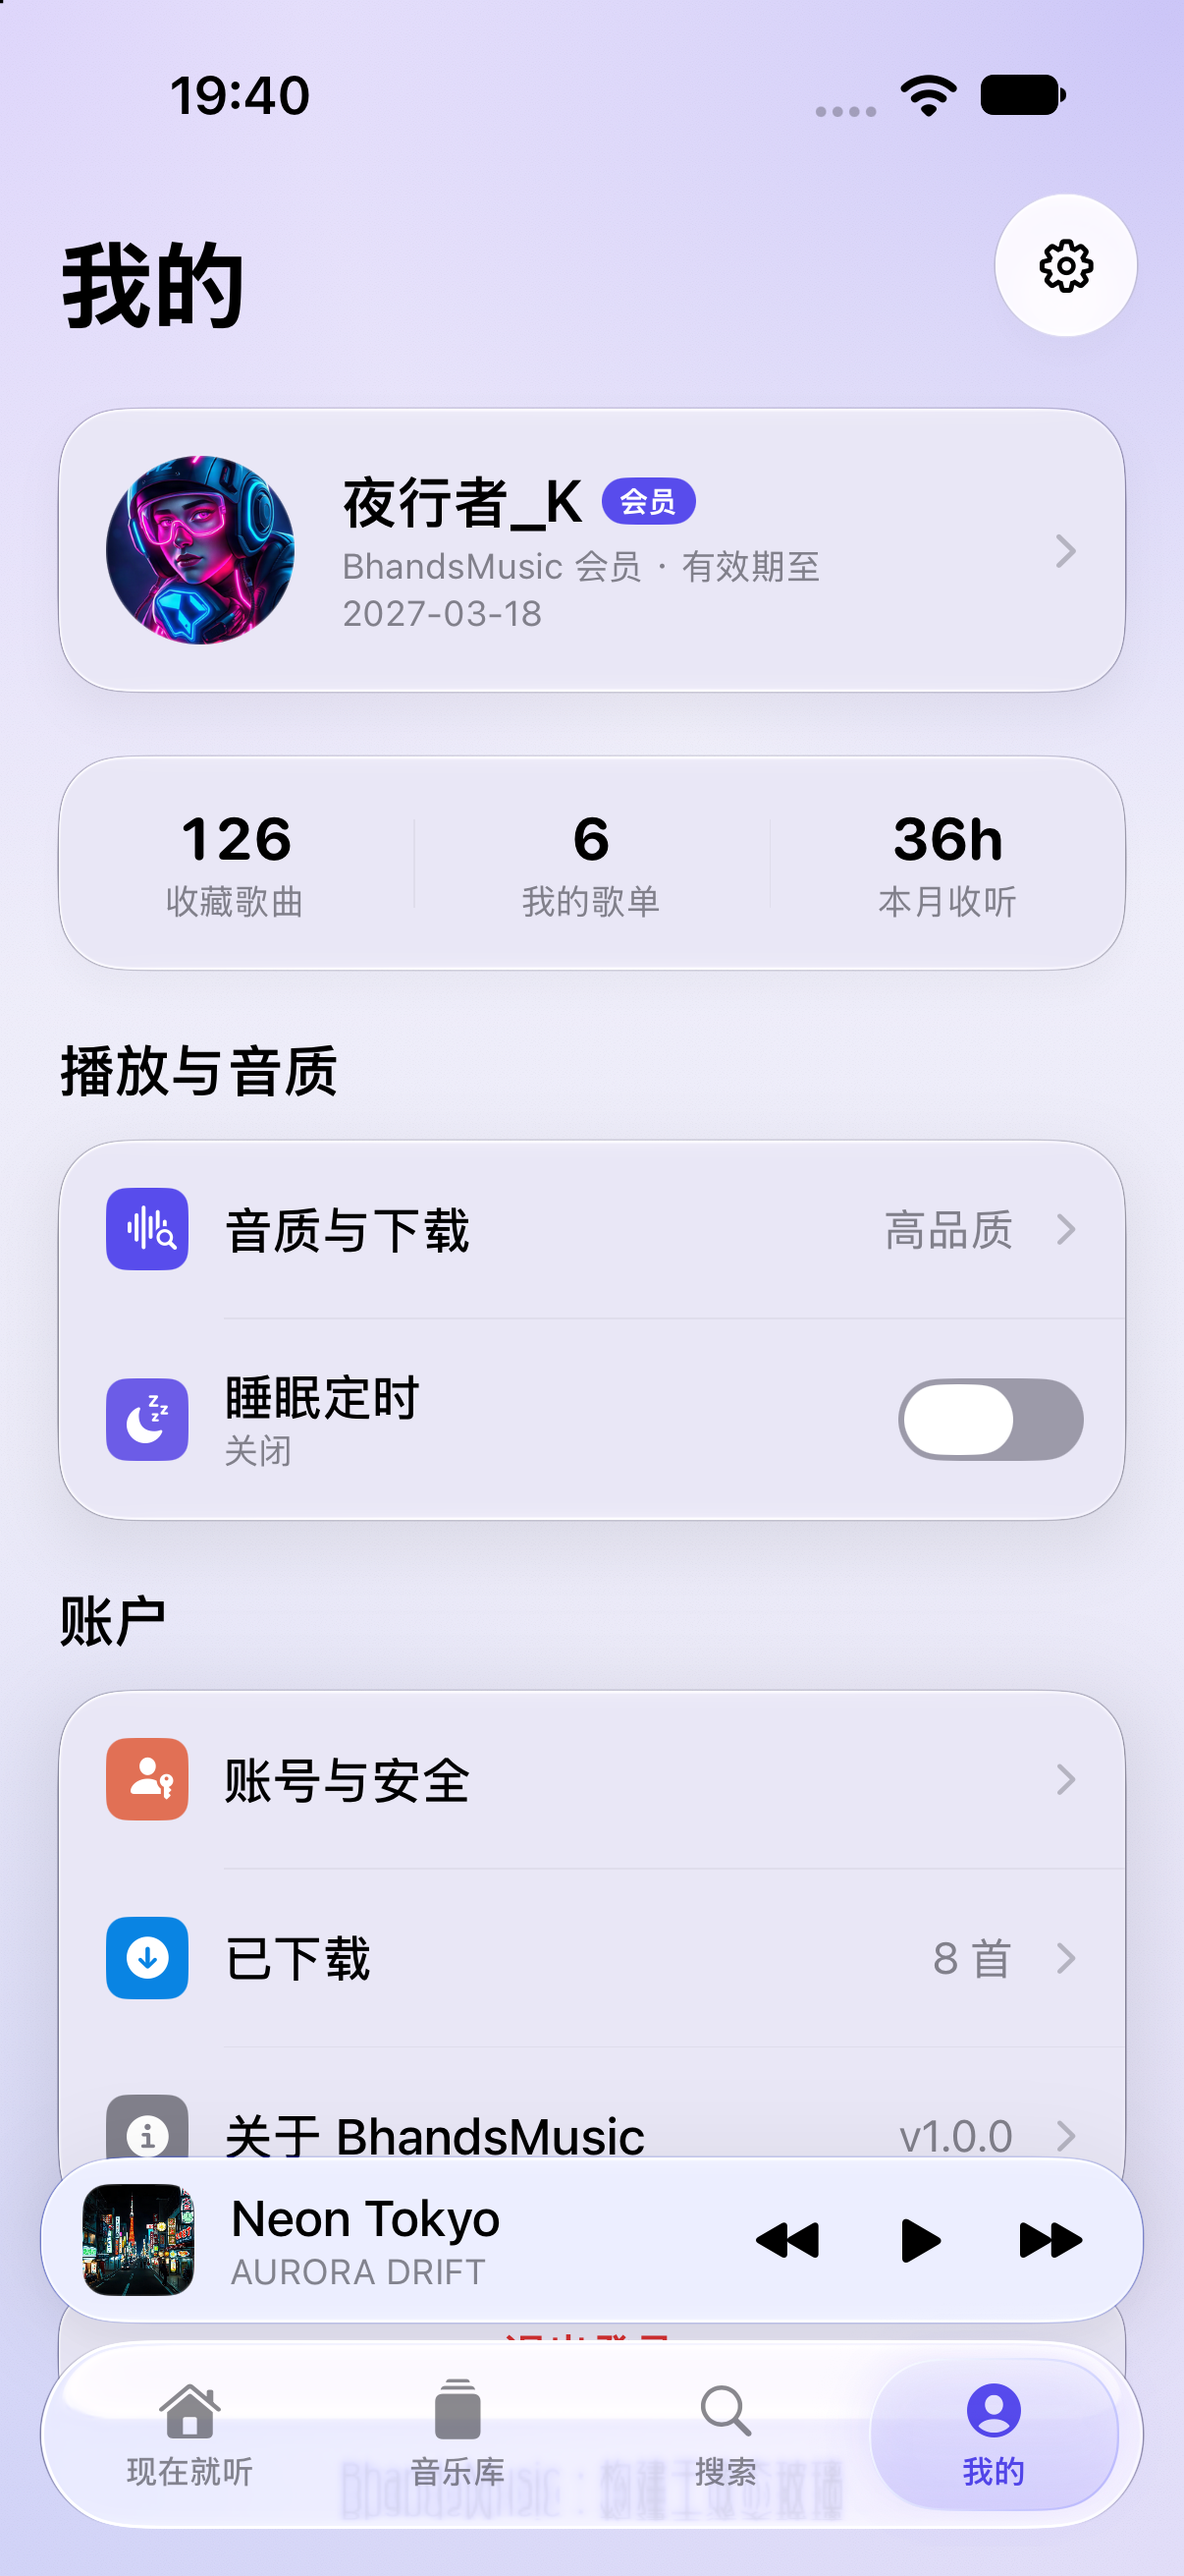
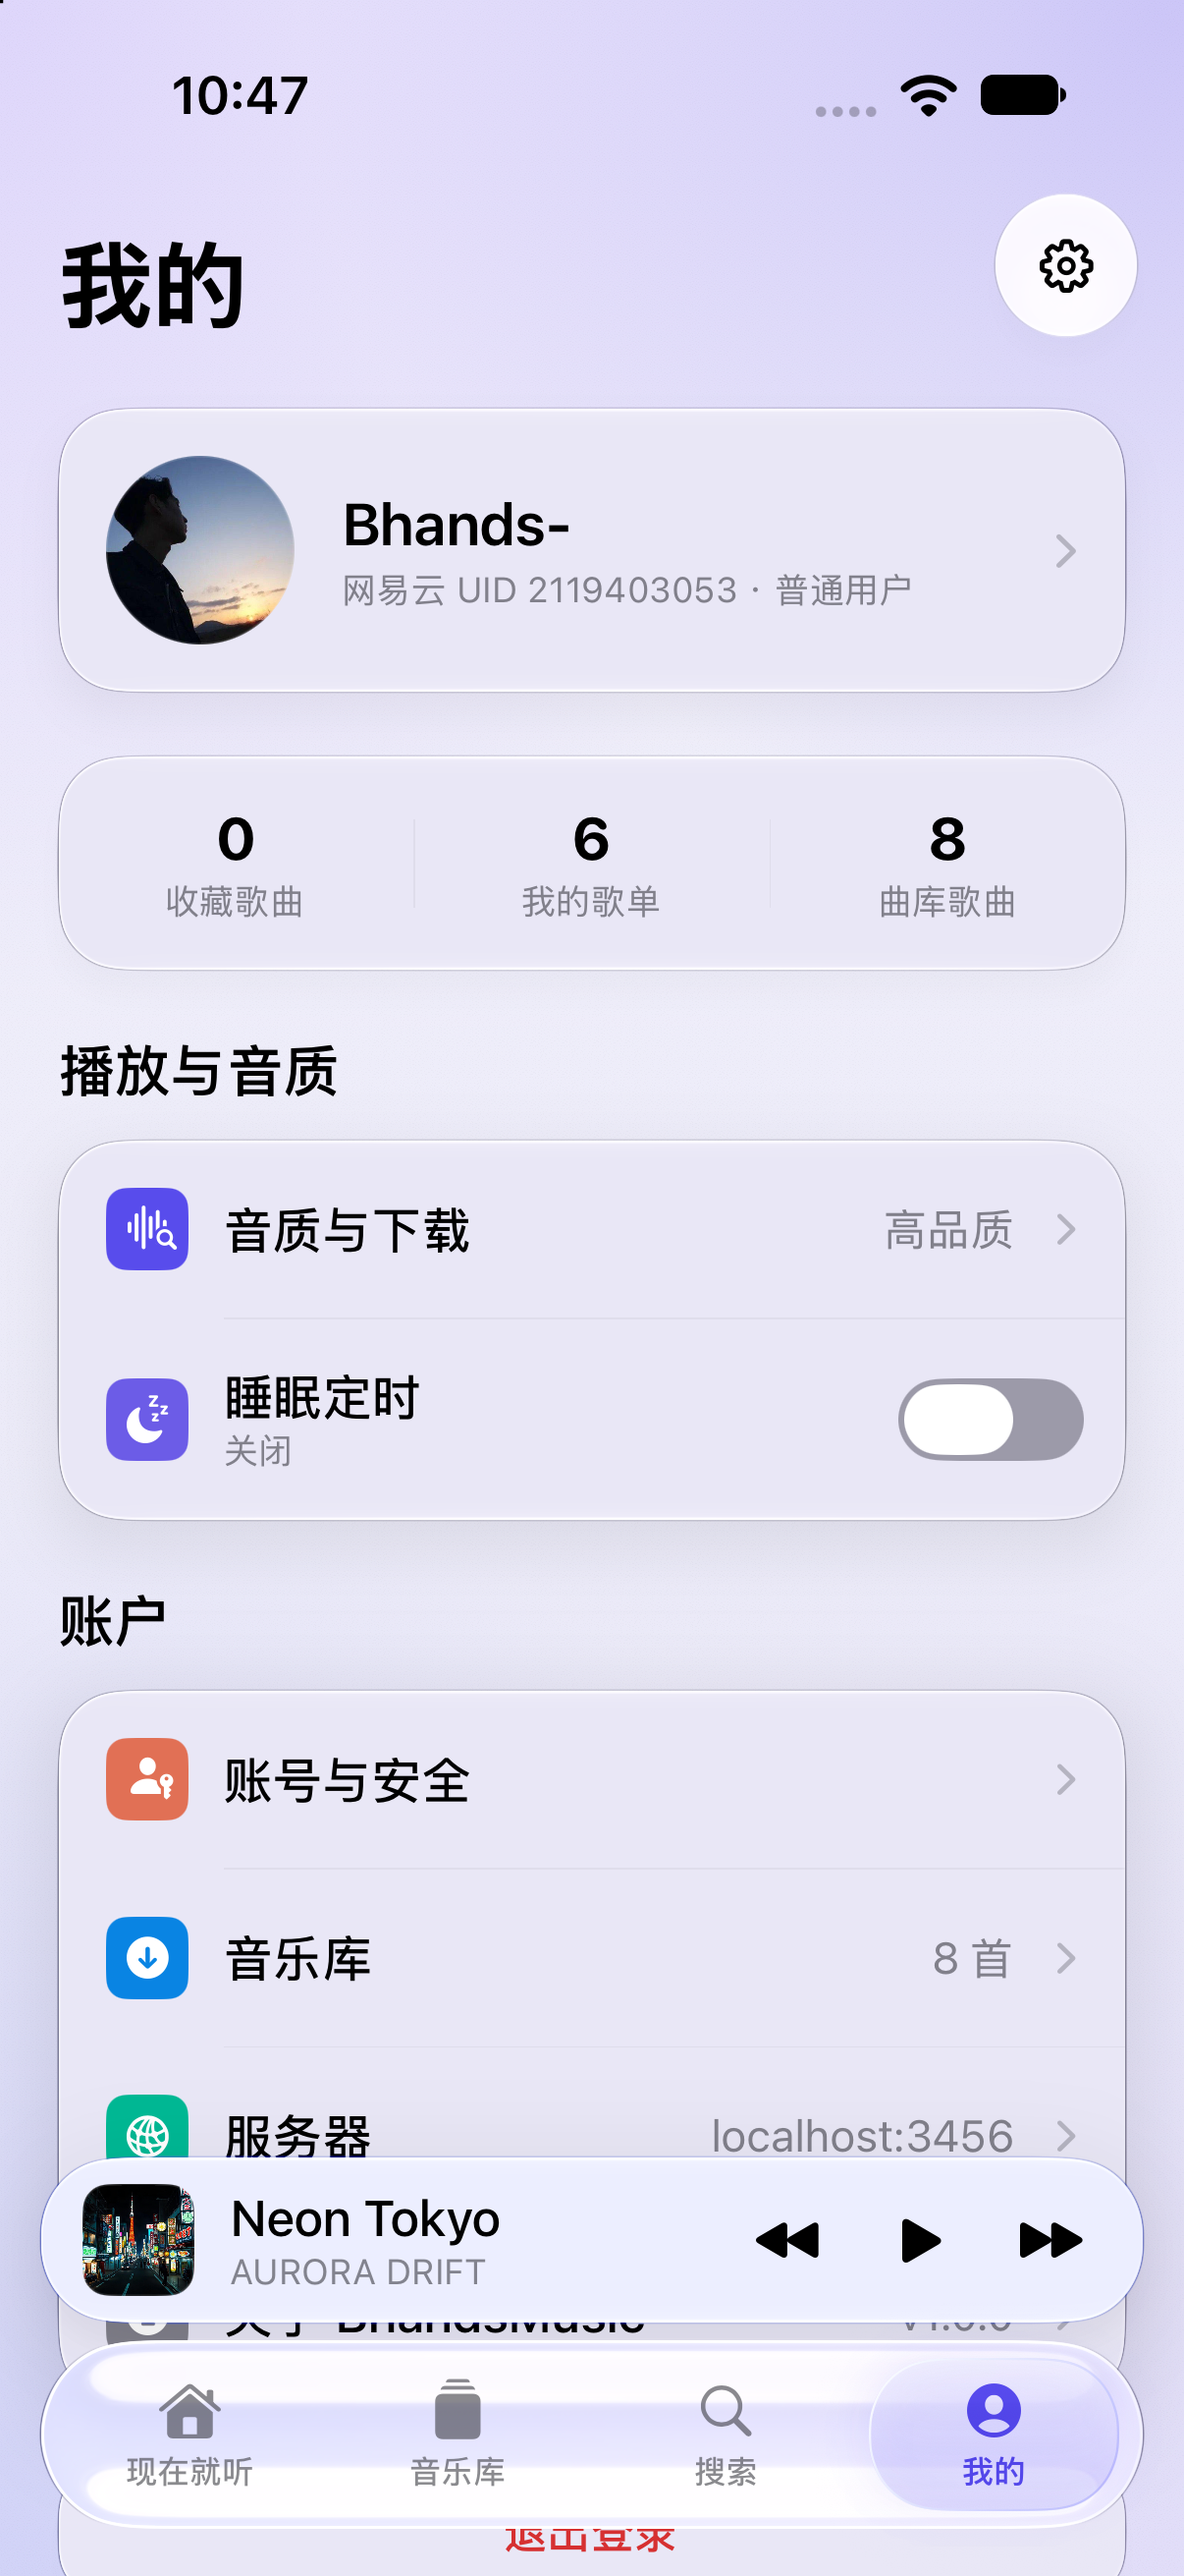
整体审查：修 4 个死按钮、3 处假数据、1 个持久化 bug、若干死代码
## 死按钮（点了没反应）

- 搜索「最近搜索 · 清除」：空闭包 → 真的清空并落盘
- 首页「为你推荐 · 全部」：6 个歌单本来就全铺开了，没有下一页 → 去掉
- 首页右上头像：空闭包 → 切到「我的」（HomeView 加了 selection 绑定）
- 歌单详情省略号：空闭包，且页面已有播放/随机 → 去掉

## 假数据

- 「最近搜索」是写死的 5 个词 → 改成真实历史，提交时记录、持久化、可清除
- 统计卡「收藏歌曲」是 likedIDs.count + 126 → 去掉 +126
- 统计卡「本月收听 36h」是编的 → 换成「曲库歌曲」，跟着真实曲库
- 统计卡「我的歌单」登录后仍显示本地 6 个 → 登录时用账号歌单数

## 持久化 bug

likedIDs 用 Song.id（每次启动重新生成的 UUID）当键，而且不落盘 ——
喜欢一首歌重启就没了。改用 Song.stableKey（网易云用 id，本地用歌名+艺人），
并写进 UserDefaults。

## 死代码 / 一致性

- MusicLibrary.albums / artists / genre 已无人引用，删除
- 首页「最近播放 / 新发行 / 热门单曲」还绑在打包音轨上，
  音乐库换成远程曲目后这三栏仍是那 8 首测试歌 → 移到 LibraryStore
- LibraryStore 的 albums / artists 按名称去重，避免同一专辑/艺人出现多行

编译 0 警告。

diff --git a/GlassMusicPlayer/Models/MusicLibrary.swift b/GlassMusicPlayer/Models/MusicLibrary.swift
@@ -37,6 +37,17 @@ struct Song: Identifiable, Hashable {
     /// 默认是打包音轨，电台等远程源显式传入
     var source: SongSource = .bundled
 
+    /// 跨启动稳定的标识，用来存"喜欢"这类持久状态。
+    ///
+    /// **不能用 `id`** —— 它是每次启动重新生成的 UUID，重启后对不上。
+    var stableKey: String {
+        switch source {
+        case .netease(let id): return "ncm:\(id)"
+        case .bundled: return "local:\(title)|\(artist)"
+        case .stream(let url): return "stream:\(url.absoluteString)"
+        }
+    }
+
     /// 直播流：没有时长、不能拖进度
     var isLive: Bool { duration <= 0 }
 
@@ -261,16 +272,6 @@ enum MusicLibrary {
 
     // MARK: 专辑
 
-    static let albums: [Album] = songs.map { song in
-        Album(
-            title: song.album,
-            artist: song.artist,
-            year: song.year,
-            artworkName: song.artworkName,
-            songIDs: [song.id]
-        )
-    }
-
     // MARK: 歌单
 
     /// 确定性洗牌：同一天内结果固定，隔天换一批。
@@ -346,42 +347,13 @@ enum MusicLibrary {
         )
     ]
 
-    // MARK: 艺人
-
-    static let artists: [Artist] = songs.map { song in
-        Artist(
-            name: song.artist,
-            genre: genre(for: song),
-            artworkName: song.artworkName,
-            monthlyListeners: max(120_000, song.plays / 6)
-        )
-    }
-
-    private static func genre(for song: Song) -> String {
-        switch song.title {
-        case "Neon Tokyo", "Cyber Bloom":  return "合成器浪潮"
-        case "午夜霓虹", "Chrome Heart":     return "电子"
-        case "Deep Space Love":            return "氛围电子"
-        case "Velvet Circuit", "Tokyo Rain": return "Lo-Fi"
-        default:                           return "国风电音"
-        }
-    }
-
     // MARK: 首页分组
-
-    /// 最近播放（按「上次听到的位置」排，真实产品里来自本地历史）
-    static let recentlyPlayed: [Song] = [
-        songs[2], songs[0], songs[5], songs[3], songs[7], songs[1]
-    ]
 
     /// 为你推荐 —— 首页用三列网格，正好 6 个铺满两行
     static let madeForYou: [Playlist] = playlists
 
-    /// 新发行
-    static let newReleases: [Album] = Array(albums.sorted { $0.year > $1.year }.prefix(6))
-
-    /// 热门单曲
-    static let topSongs: [Song] = songs.sorted { $0.plays > $1.plays }
+    // 最近播放 / 新发行 / 热门单曲原本也在这里，但它们绑在打包音轨上。
+    // 音乐库换成远程曲目后，这三栏还是显示那 8 首测试歌 —— 已移到 LibraryStore。
 }
 
 // MARK: - 播放状态
@@ -420,7 +392,13 @@ final class PlayerModel {
     var showsLyrics: Bool = DebugLaunch.opensLyrics
     /// 用户正在拖进度条 —— 期间不让播放器的进度回调覆盖手指位置
     var isSeeking: Bool = false
-    private(set) var likedIDs: Set<UUID> = []
+    /// 收藏的歌曲。键是 `Song.stableKey`，不是 UUID —— UUID 每次启动都变。
+    private(set) var likedIDs: Set<String> =
+        Set(UserDefaults.standard.stringArray(forKey: "likedKeys") ?? [])
+
+    private func persistLikes() {
+        UserDefaults.standard.set(Array(likedIDs), forKey: "likedKeys")
+    }
 
     /// 随机播放走过的曲目下标，「上一曲」按这个回退
     @ObservationIgnored private var history: [Int] = []
@@ -479,14 +457,15 @@ final class PlayerModel {
         return Array(queue[(currentIndex + 1)...])
     }
 
-    func isLiked(_ song: Song) -> Bool { likedIDs.contains(song.id) }
+    func isLiked(_ song: Song) -> Bool { likedIDs.contains(song.stableKey) }
 
     func toggleLike(_ song: Song) {
-        if likedIDs.contains(song.id) {
-            likedIDs.remove(song.id)
+        if likedIDs.contains(song.stableKey) {
+            likedIDs.remove(song.stableKey)
         } else {
-            likedIDs.insert(song.id)
+            likedIDs.insert(song.stableKey)
         }
+        persistLikes()
     }
 
     /// 音乐库解析完就换掉空闲队列。

diff --git a/GlassMusicPlayer/Views/HomeView.swift b/GlassMusicPlayer/Views/HomeView.swift
@@ -5,6 +5,9 @@ import SwiftUI
 /// 页面结构：稳固的柔和底 → 可滚动的内容（大标题 / 横向货架 / 实底列表）
 /// → 悬浮玻璃头部覆盖其上。滚动时大标题滚走、头部标题淡入。
 struct HomeView: View {
+    /// 点右上角头像要切到「我的」，所以得拿到 tab 选择
+    @Binding var selection: Int
+
     @Environment(PlayerModel.self) private var player
     @Environment(LibraryStore.self) private var library
     @Environment(PlaylistStore.self) private var playlists
@@ -47,7 +50,10 @@ struct HomeView: View {
                     HeaderIconButton(systemName: "magnifyingglass") {
                         showsSearch = true
                     }
-                    HeaderIconButton(systemName: "person.crop.circle") {}
+                    HeaderIconButton(systemName: "person.crop.circle") {
+                    // 之前是空闭包。头像点进「我的」是最符合直觉的
+                    selection = 3
+                }
                 }
             }
             .padding(.horizontal, LiquidTheme.Spacing.md)
@@ -167,7 +173,7 @@ struct HomeView: View {
 
             ScrollView(.horizontal) {
                 HStack(spacing: LiquidTheme.Spacing.sm) {
-                    ForEach(MusicLibrary.recentlyPlayed) { song in
+                    ForEach(library.recentlyPlayed) { song in
                         Button {
                             player.play(song)
                         } label: {
@@ -204,7 +210,8 @@ struct HomeView: View {
 
     private var madeForYouSection: some View {
         VStack(alignment: .leading, spacing: LiquidTheme.Spacing.sm) {
-            SectionHeader(title: "为你推荐", subtitle: "根据最近的收听生成", actionTitle: "全部") {}
+            // 6 个歌单本来就全部横向铺开了，「全部」没有下一页可去，去掉这个死按钮
+            SectionHeader(title: "为你推荐", subtitle: "根据最近的收听生成")
                 .padding(.horizontal, LiquidTheme.Spacing.screenH)
 
             LazyVGrid(
@@ -337,7 +344,7 @@ struct HomeView: View {
 
             ScrollView(.horizontal) {
                 HStack(spacing: LiquidTheme.Spacing.sm) {
-                    ForEach(MusicLibrary.newReleases) { album in
+                    ForEach(library.newReleases) { album in
                         VStack(alignment: .leading, spacing: LiquidTheme.Spacing.xs) {
                             ArtworkView(name: album.artworkName, cornerRadius: LiquidTheme.Radius.tile)
                                 .frame(width: 128, height: 128)
@@ -370,7 +377,7 @@ struct HomeView: View {
                 .padding(.horizontal, LiquidTheme.Spacing.screenH)
 
             VStack(spacing: 0) {
-                ForEach(Array(MusicLibrary.topSongs.prefix(5).enumerated()), id: \.element.id) { index, song in
+                ForEach(Array(library.topSongs.prefix(5).enumerated()), id: \.element.id) { index, song in
                     if index > 0 {
                         hairline
                     }
@@ -382,7 +389,7 @@ struct HomeView: View {
                         isPlaying: player.isPlaying,
                         isLiked: player.isLiked(song)
                     ) {
-                        player.play(song, in: MusicLibrary.topSongs)
+                        player.play(song, in: library.topSongs)
                     }
                 }
             }
@@ -400,6 +407,6 @@ struct HomeView: View {
 }
 
 #Preview {
-    HomeView()
+    HomeView(selection: .constant(0))
         .environment(PlayerModel())
 }

diff --git a/GlassMusicPlayer/Views/SearchView.swift b/GlassMusicPlayer/Views/SearchView.swift
@@ -24,7 +24,9 @@ struct SearchView: View {
     @State private var isSearchingRemote = false
     @State private var remoteError: String?
 
-    private let recentSearches = ["午夜霓虹", "AURORA DRIFT", "合成器浪潮", "雨天", "NOVA"]
+    /// 最近搜索。持久化在 UserDefaults —— 之前是写死的假数据，「清除」也是空闭包。
+    @State private var recentSearches: [String] =
+        UserDefaults.standard.stringArray(forKey: "recentSearches") ?? []
 
     private var results: [Song] {
         let keyword = query.trimmingCharacters(in: .whitespaces)
@@ -45,7 +47,10 @@ struct SearchView: View {
                     Color.clear.frame(height: 0)
 
                     if query.isEmpty {
-                        recentSection
+                        // 没有历史时整段不显示，免得留一个空的「最近搜索」标题
+                        if !recentSearches.isEmpty {
+                            recentSection
+                        }
                         genreSection
                     } else {
                         if !results.isEmpty {
@@ -87,6 +92,7 @@ struct SearchView: View {
                     .foregroundStyle(LiquidTheme.Palette.secondary)
 
                 TextField("歌曲、艺人、专辑", text: $query)
+                    .onSubmit { remember(query) }
                     .font(LiquidTheme.Typography.rowTitle)
                     .foregroundStyle(LiquidTheme.Palette.label)
                     .focused($isFocused)
@@ -127,9 +133,23 @@ struct SearchView: View {
 
     // MARK: - 最近搜索
 
+    /// 记一条搜索历史。太短的不记 —— 打字过程中会进来很多半截词。
+    private func remember(_ keyword: String) {
+        let trimmed = keyword.trimmingCharacters(in: .whitespacesAndNewlines)
+        guard trimmed.count >= 2 else { return }
+
+        var list = recentSearches.filter { $0 != trimmed }
+        list.insert(trimmed, at: 0)
+        recentSearches = Array(list.prefix(8))
+        UserDefaults.standard.set(recentSearches, forKey: "recentSearches")
+    }
+
     private var recentSection: some View {
         VStack(alignment: .leading, spacing: LiquidTheme.Spacing.sm) {
-            SectionHeader(title: "最近搜索", actionTitle: "清除") {}
+            SectionHeader(title: "最近搜索", actionTitle: "清除") {
+                recentSearches = []
+                UserDefaults.standard.removeObject(forKey: "recentSearches")
+            }
                 .padding(.horizontal, LiquidTheme.Spacing.screenH)
 
             FlowLayout(spacing: LiquidTheme.Spacing.xs) {

diff --git a/GlassMusicPlayer/Models/LibraryStore.swift b/GlassMusicPlayer/Models/LibraryStore.swift
@@ -38,9 +38,12 @@ final class LibraryStore {
 
     @ObservationIgnored private var attempted = false
 
+    /// 按专辑去重 —— 同一张专辑有多首歌时不该出现多行
     var albums: [Album] {
-        songs.map { song in
-            Album(
+        var seen = Set<String>()
+        return songs.compactMap { song in
+            guard seen.insert("\(song.album)|\(song.artist)").inserted else { return nil }
+            return Album(
                 title: song.album,
                 artist: song.artist,
                 year: song.year,
@@ -50,9 +53,12 @@ final class LibraryStore {
         }
     }
 
+    /// 按艺人去重 —— 同一位歌手有两首歌时不该出现两行
     var artists: [Artist] {
-        songs.map { song in
-            Artist(
+        var seen = Set<String>()
+        return songs.compactMap { song in
+            guard seen.insert(song.artist).inserted else { return nil }
+            return Artist(
                 name: song.artist,
                 genre: "精选",
                 artworkName: song.artworkName,
@@ -60,6 +66,15 @@ final class LibraryStore {
             )
         }
     }
+
+    /// 最近播放。真实产品该读本地历史，这里先取曲库前 6 首。
+    var recentlyPlayed: [Song] { Array(songs.prefix(6)) }
+
+    /// 新发行
+    var newReleases: [Album] { Array(albums.sorted { $0.year > $1.year }.prefix(6)) }
+
+    /// 热门单曲。远程曲目没有播放量，顺序就是曲库顺序。
+    var topSongs: [Song] { songs }
 
     func load() async {
         guard !attempted else { return }

diff --git a/GlassMusicPlayer/Views/ProfileView.swift b/GlassMusicPlayer/Views/ProfileView.swift
@@ -196,11 +196,12 @@ struct ProfileView: View {
 
     private var statsCard: some View {
         HStack(spacing: 0) {
-            stat(value: "\(player.likedIDs.count + 126)", label: "收藏歌曲")
+            // 三个数字都得是真的：之前「+126」和「36h」都是编的
+            stat(value: "\(player.likedIDs.count)", label: "收藏歌曲")
             divider
-            stat(value: "\(MusicLibrary.playlists.count)", label: "我的歌单")
+            stat(value: "\(session.myPlaylists.isEmpty ? MusicLibrary.playlists.count : session.myPlaylists.count)", label: "我的歌单")
             divider
-            stat(value: "36h", label: "本月收听")
+            stat(value: "\(library.songs.count)", label: "曲库歌曲")
         }
         .padding(.vertical, LiquidTheme.Spacing.md)
         .glassPanel()

diff --git a/GlassMusicPlayer/Views/PlaylistDetailView.swift b/GlassMusicPlayer/Views/PlaylistDetailView.swift
@@ -56,7 +56,9 @@ struct PlaylistDetailView: View {
                 showsBack: true,
                 onBack: { dismiss() }
             ) {
-                HeaderIconButton(systemName: "ellipsis") {}
+                // 这里原来有个省略号按钮，是空闭包。页面已经有「播放 / 随机播放」，
+                // 再挂一个"更多"菜单只会重复，直接去掉。
+                EmptyView()
             }
             .padding(.horizontal, LiquidTheme.Spacing.md)
             .padding(.top, 4)

diff --git a/GlassMusicPlayer/Views/RootView.swift b/GlassMusicPlayer/Views/RootView.swift
@@ -31,7 +31,7 @@ struct RootView: View {
         ZStack(alignment: .bottom) {
             Group {
                 switch selection {
-                case 0:  HomeView()
+                case 0:  HomeView(selection: $selection)
                 case 1:  LibraryView()
                 case 2:  SearchView(isModal: false)
                 default: ProfileView()
